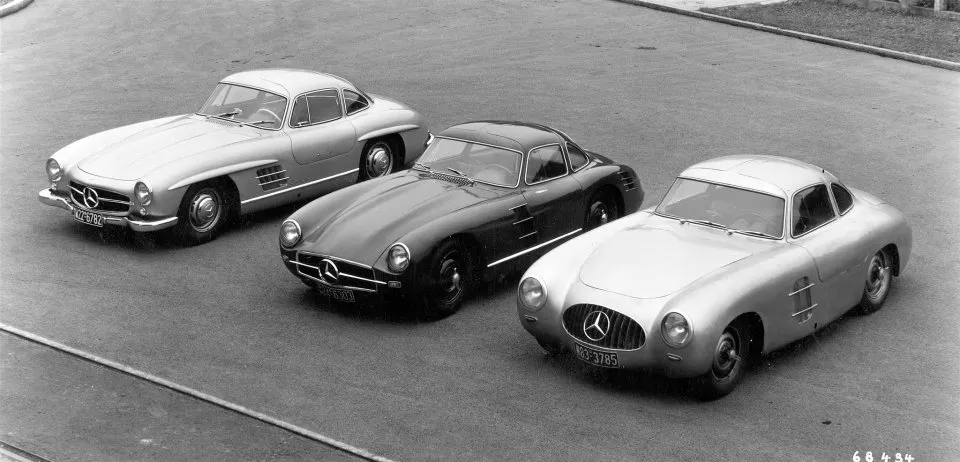
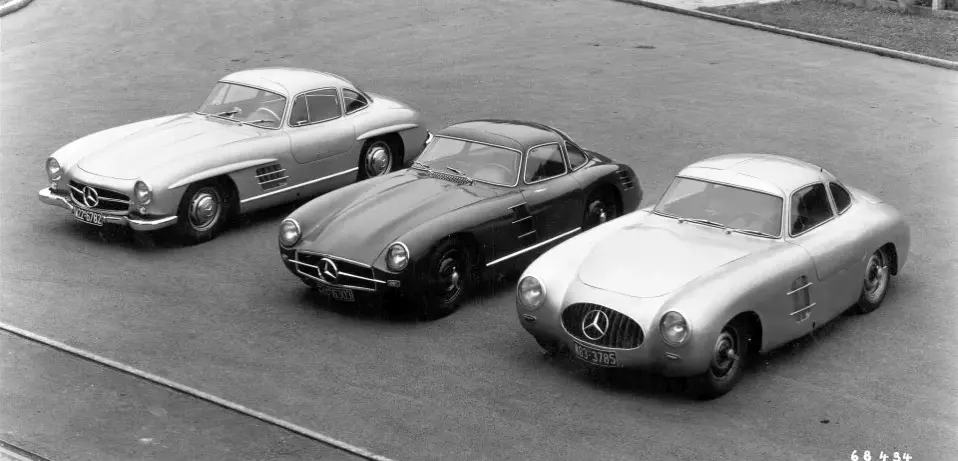
246

diff --git a/pic/ja_mb_img_sl.html b/pic/ja_mb_img_sl.html
@@ -327,8 +327,8 @@
 			</div>
 			<h2>Links: 300SL (W198) , 300SL (W194) , 300SL 1952 Carrera Panamericana</h2>
 			<div class="style-w">
-				<a href="full/sl/sl_all.jpg"><img src="style/sl/sl_all.webp" alt="メルセデス,SLクラス,all" title="300SL (W198) 1954 - 1957 , 300SL Transaxle Prototype (W194) 1953 , 300SL 1952 Carrera Panamericana" width="960" height="462"></a>
-				<a href="full/sl/sl_all_v3.jpg"><img src="style/sl/sl_all_v3.webp" alt="メルセデス,SLクラス,all" title="上から R231, R230, R129, R107, W113, W121BII, W198" width="245" height="462"></a>
+				<a href="full/sl/sl_all.jpg"><img src="style/sl/sl_all.webp" alt="メルセデス,SLクラス,all" title="300SL (W198) 1954 - 1957 , 300SL Transaxle Prototype (W194) 1953 , 300SL 1952 Carrera Panamericana" width="958" height="461"></a>
+				<a href="full/sl/sl_all_v3.jpg"><img src="style/sl/sl_all_v3.webp" alt="メルセデス,SLクラス,all" title="上から R231, R230, R129, R107, W113, W121BII, W198" width="244" height="461"></a>
 			</div>
 		</header>
 

diff --git a/pic/en_mb_img_sl.html b/pic/en_mb_img_sl.html
@@ -327,8 +327,8 @@
 			</div>
 			<h2>Links: 300SL (W198) , 300SL (W194) , 300SL 1952 Carrera Panamericana</h2>
 			<div class="style-w">
-				<a href="full/sl/sl_all.jpg"><img src="style/sl/sl_all.webp" alt="Mercedes,Sl_all" title="Links: 300SL (W198) 1954 - 1957 , 300SL Transaxle Prototype (W194) 1953 , 300SL 1952 Carrera Panamericana" width="960" height="462"></a>
-				<a href="full/sl/sl_all_v3.jpg"><img src="style/sl/sl_all_v3.webp" alt="Mercedes,Sl_all" title="From the upper, R231, R230, R129, R107, W113, W121BII, W198" width="245" height="462"></a>
+				<a href="full/sl/sl_all.jpg"><img src="style/sl/sl_all.webp" alt="Mercedes,Sl_all" title="Links: 300SL (W198) 1954 - 1957 , 300SL Transaxle Prototype (W194) 1953 , 300SL 1952 Carrera Panamericana" width="958" height="461"></a>
+				<a href="full/sl/sl_all_v3.jpg"><img src="style/sl/sl_all_v3.webp" alt="Mercedes,Sl_all" title="From the upper, R231, R230, R129, R107, W113, W121BII, W198" width="244" height="461"></a>
 			</div>
 		</header>
 

diff --git a/pic/mb_img_sl.html b/pic/mb_img_sl.html
@@ -327,8 +327,8 @@
 			</div>
 			<h2>Links: 300SL (W198) , 300SL (W194) , 300SL 1952 Carrera Panamericana</h2>
 			<div class="style-w">
-				<a href="full/sl/sl_all.jpg"><img src="style/sl/sl_all.webp" alt="Mercedes,Sl_alle" title="Links: 300SL (W198) 1954 - 1957 , 300SL Transaxle Prototyp (W194) 1953 , 300SL 1952 Carrera Panamericana" width="960" height="462"></a>
-				<a href="full/sl/sl_all_v3.jpg"><img src="style/sl/sl_all_v3.webp" alt="Mercedes,Sl_alle" title="Von oben R231, R230, R129, R107, W113, W121BII, W198" width="245" height="462"></a>
+				<a href="full/sl/sl_all.jpg"><img src="style/sl/sl_all.webp" alt="Mercedes,Sl_alle" title="Links: 300SL (W198) 1954 - 1957 , 300SL Transaxle Prototyp (W194) 1953 , 300SL 1952 Carrera Panamericana" width="958" height="461"></a>
+				<a href="full/sl/sl_all_v3.jpg"><img src="style/sl/sl_all_v3.webp" alt="Mercedes,Sl_alle" title="Von oben R231, R230, R129, R107, W113, W121BII, W198" width="244" height="461"></a>
 			</div>
 		</header>
 
